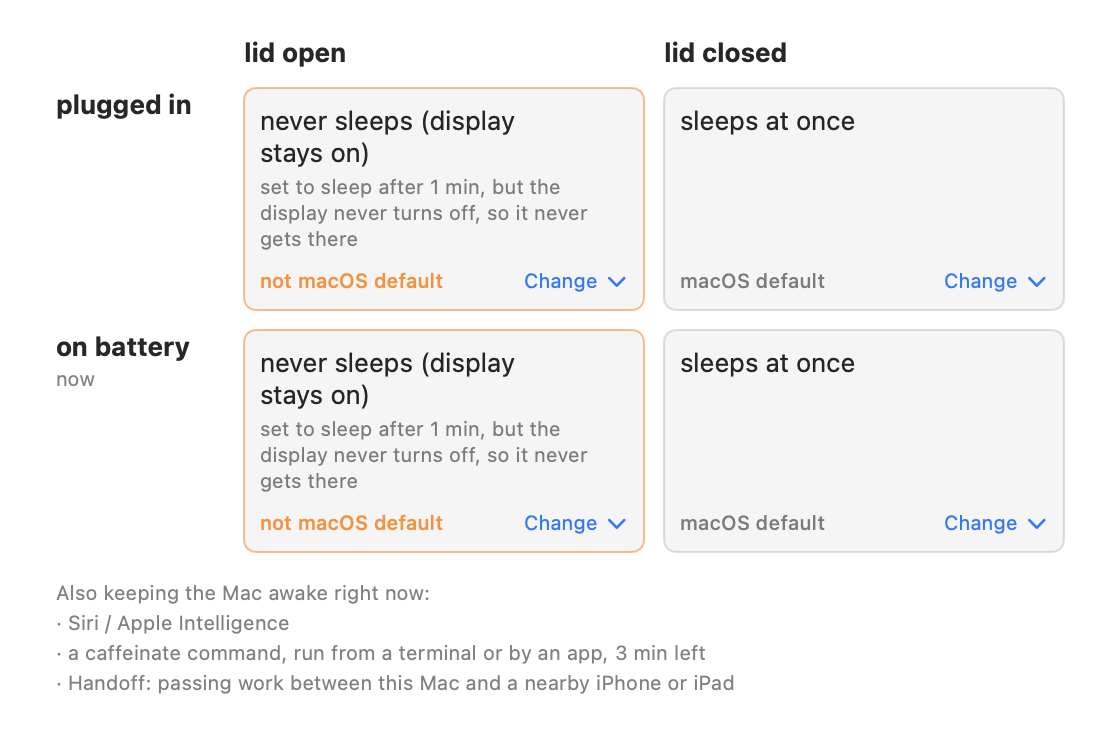
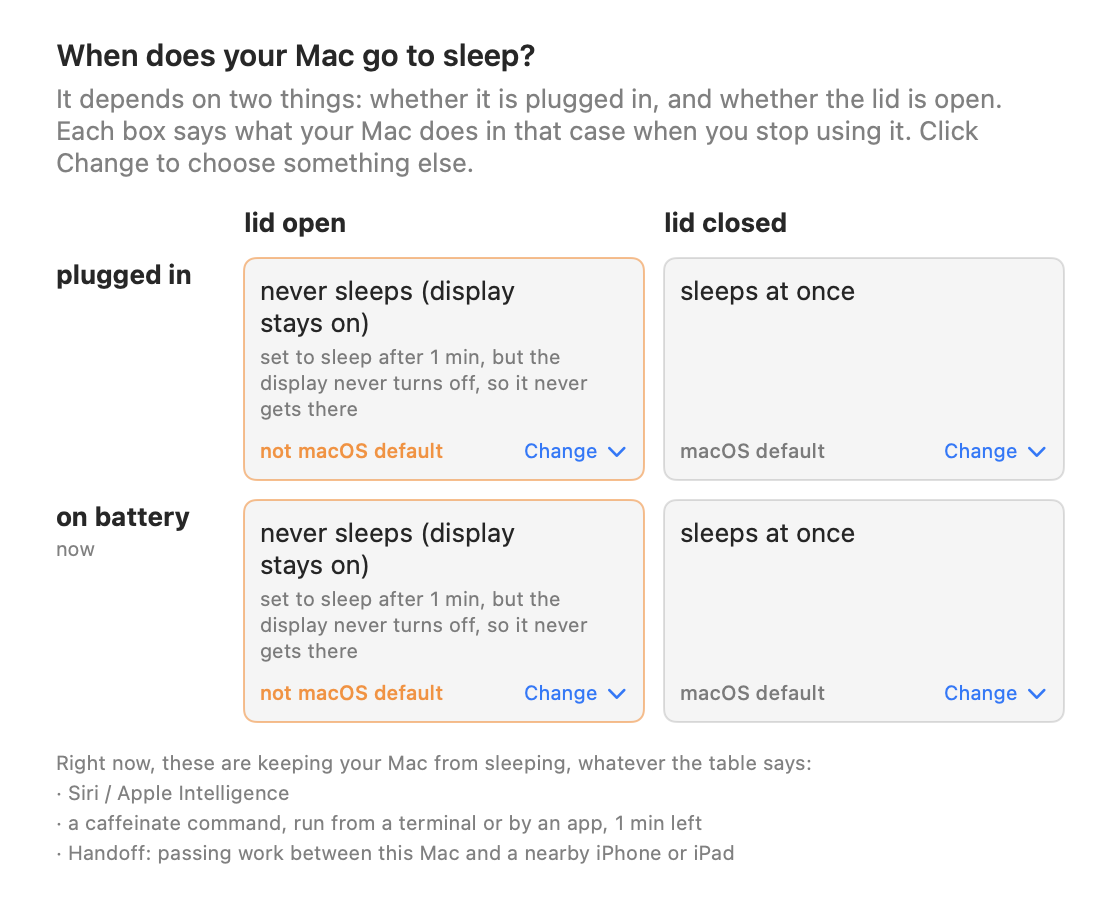
Say what Nap is and what the table answers

diff --git a/Sources/Nap/ShowMe.swift b/Sources/Nap/ShowMe.swift
@@ -16,6 +16,15 @@ struct ShowMe: View {
 
     var body: some View {
         VStack(alignment: .leading, spacing: 14) {
+            // What Nap is, and the question the table answers.
+            VStack(alignment: .leading, spacing: 4) {
+                Text("When does your Mac go to sleep?").font(.title3.weight(.semibold))
+                Text("It depends on two things: whether it is plugged in, and whether the lid is open. Each box says what your Mac does in that case when you stop using it. Click Change to choose something else.")
+                    .foregroundStyle(.secondary)
+                    .fixedSize(horizontal: false, vertical: true)
+            }
+            .frame(maxWidth: Self.labelWidth + 2 * Self.cellWidth + 20, alignment: .leading)
+
             VStack(alignment: .leading, spacing: 10) {
                 HStack(spacing: 10) {
                     Color.clear.frame(width: Self.labelWidth, height: 1)
@@ -51,7 +60,7 @@ struct ShowMe: View {
             let awake = Table.awakeLines(controller.assertions)
             if !awake.isEmpty {
                 VStack(alignment: .leading, spacing: 2) {
-                    Text("Also keeping the Mac awake right now:")
+                    Text("Right now, these are keeping your Mac from sleeping, whatever the table says:")
                     ForEach(awake, id: \.self) { Text("· " + $0) }
                 }
                 .font(.caption).foregroundStyle(.secondary)
